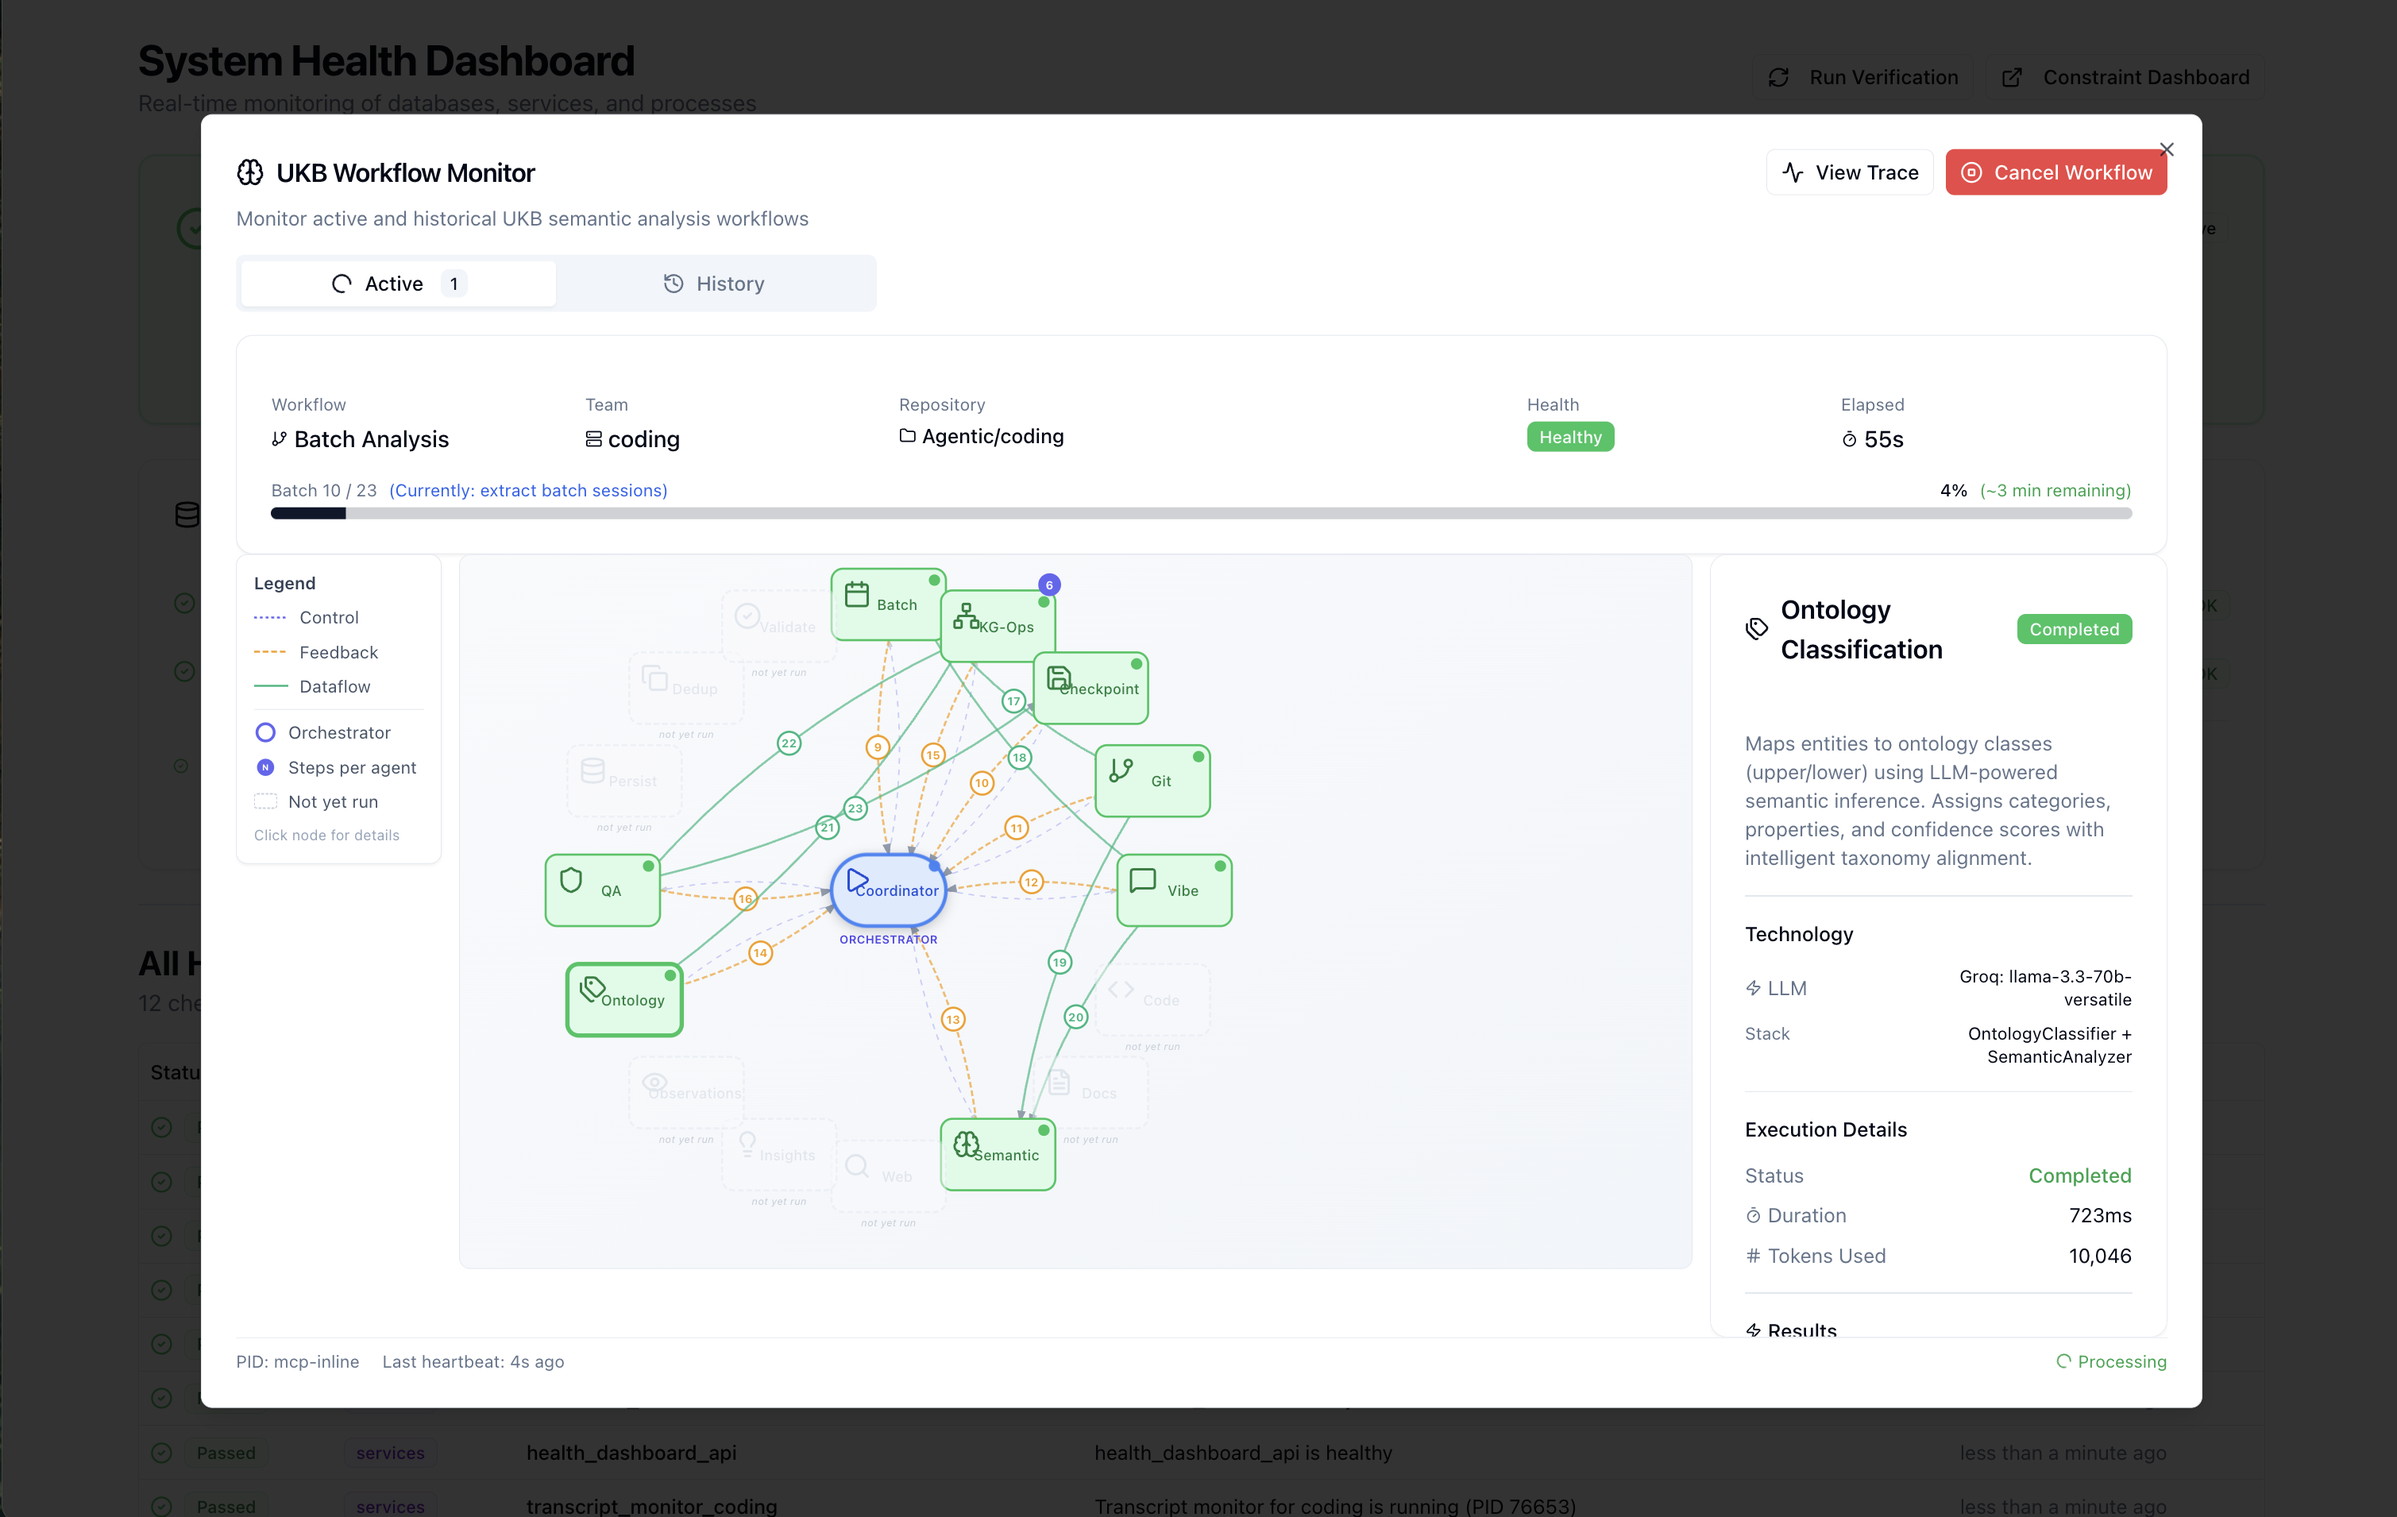
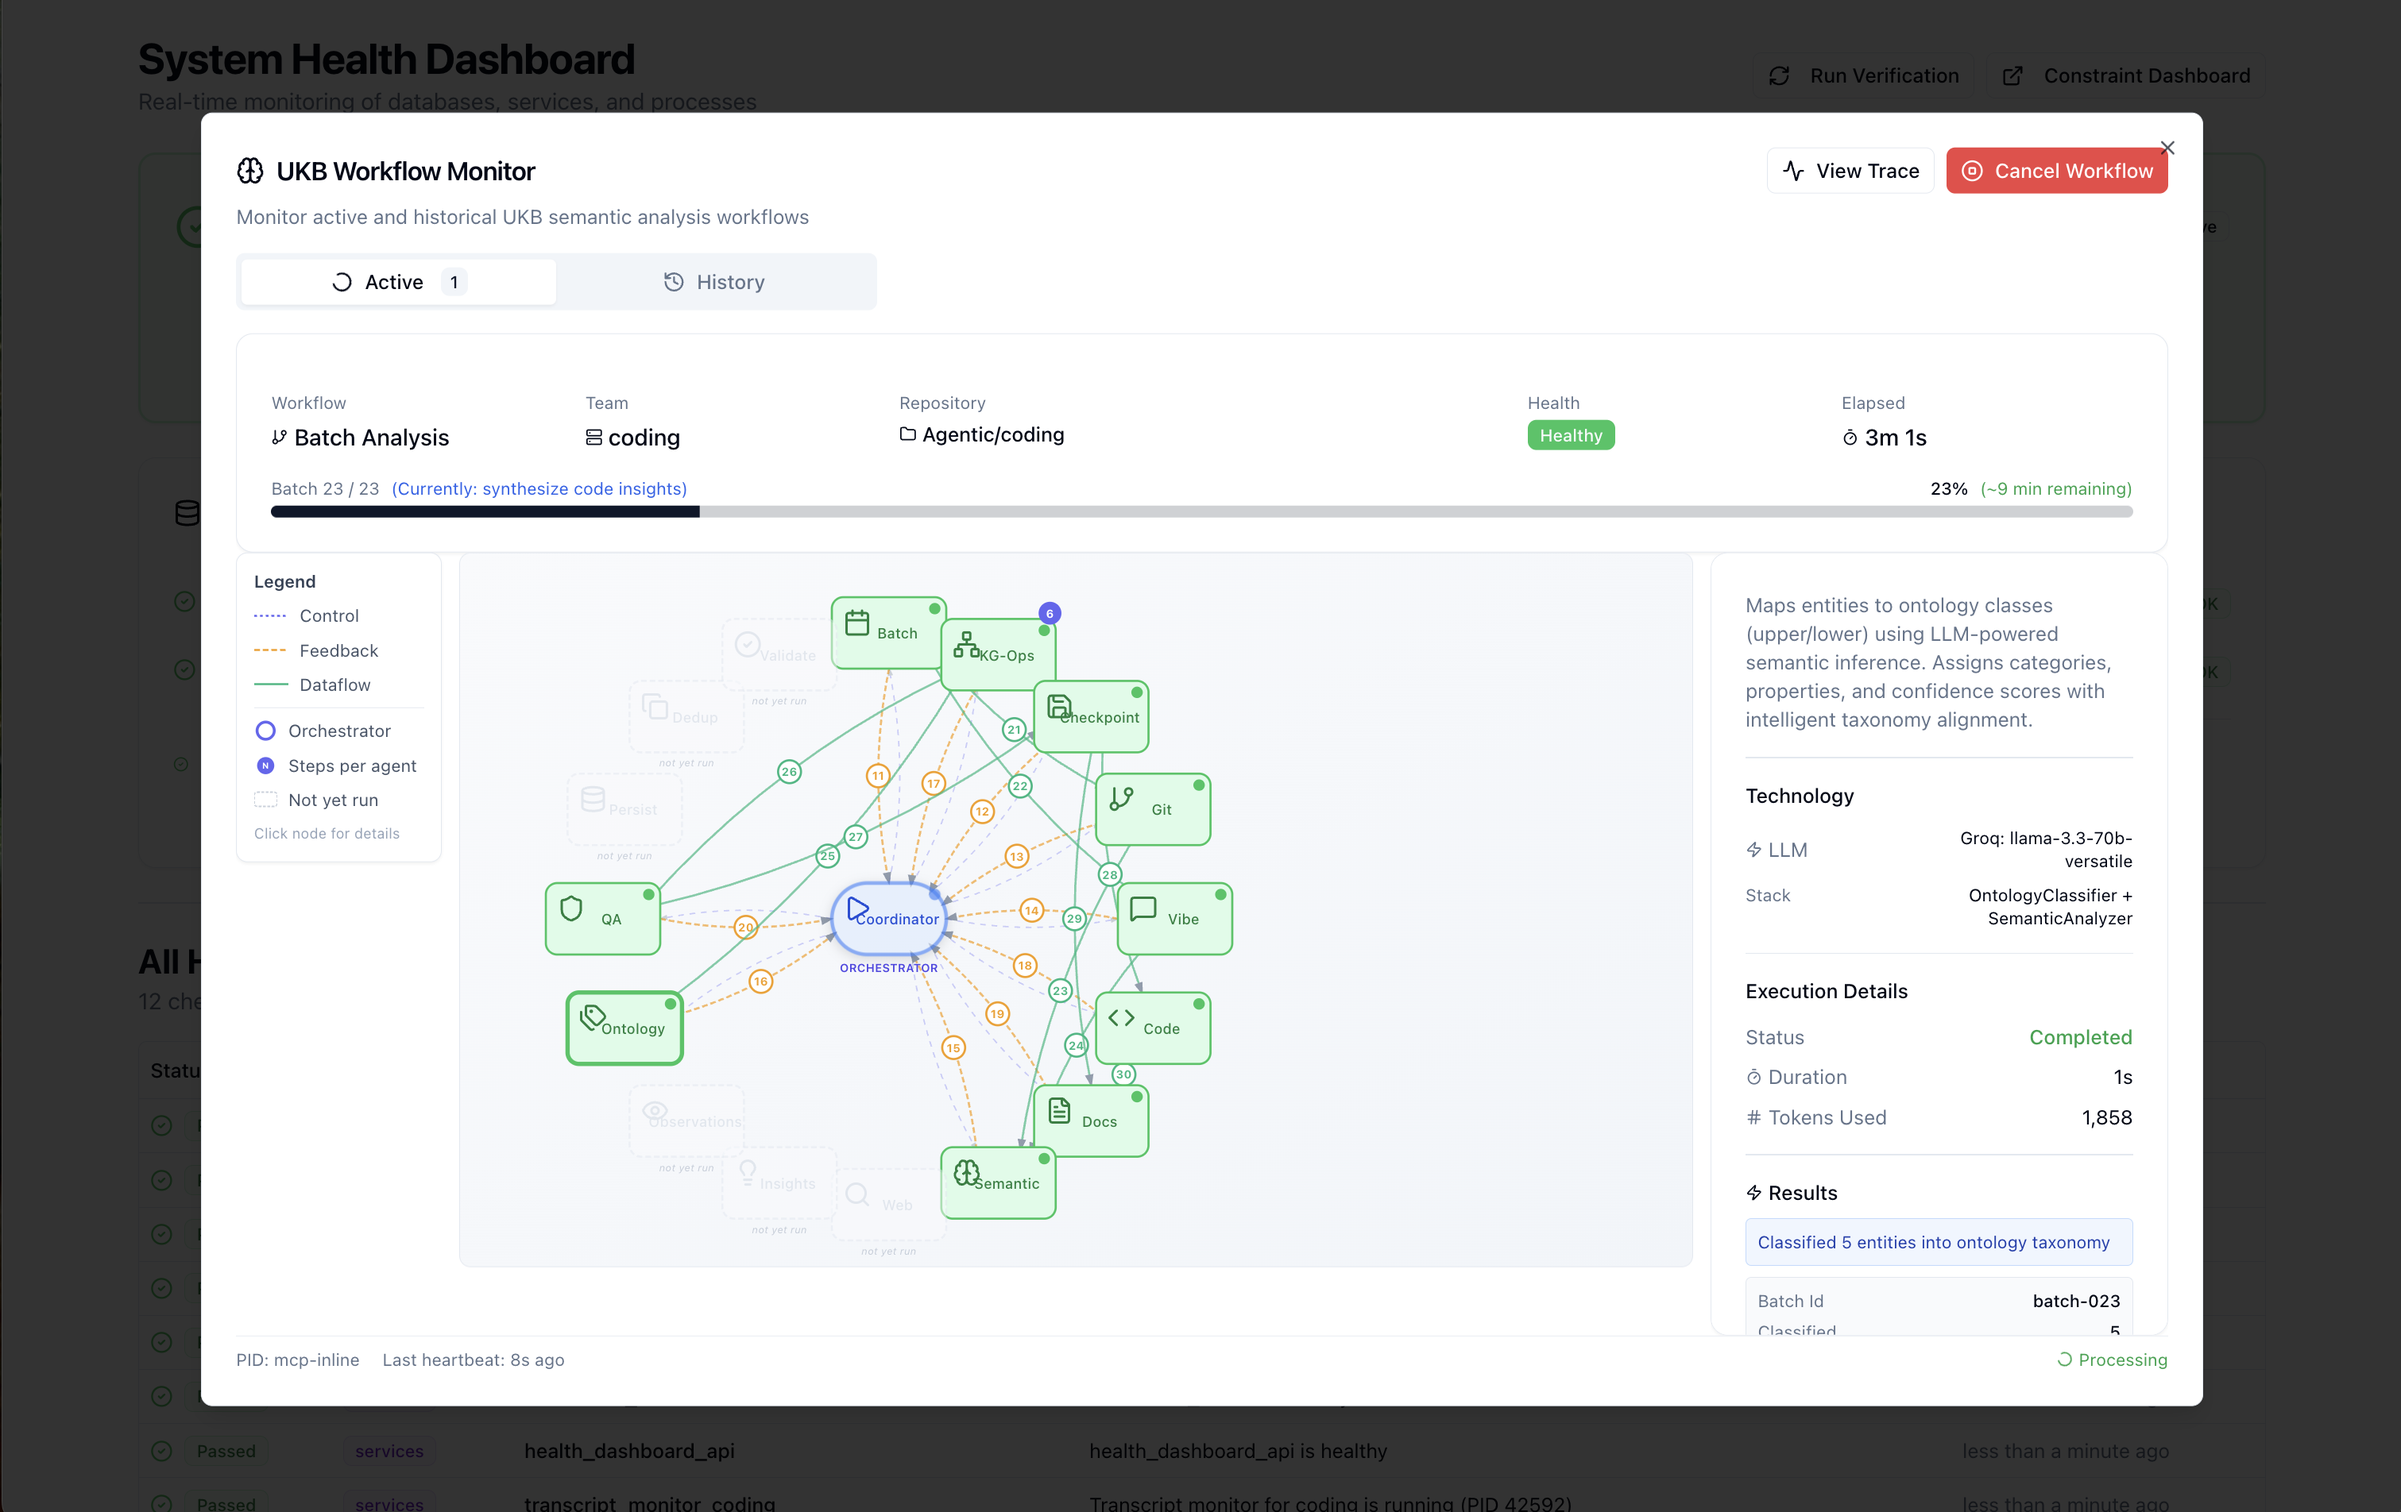
fix: progress bar and layout

diff --git a/integrations/system-health-dashboard/src/components/ukb-workflow-modal.tsx b/integrations/system-health-dashboard/src/components/ukb-workflow-modal.tsx
@@ -399,9 +399,33 @@ export default function UKBWorkflowModal({ open, onOpenChange, processes, apiBas
 
       const currentBatch = activeCurrentProcess.batchProgress?.currentBatch || 0
       const totalBatches = activeCurrentProcess.batchProgress?.totalBatches || 0
+      const completedSteps = activeCurrentProcess.completedSteps || 0
+      const totalSteps = activeCurrentProcess.totalSteps
+
+      // STEP-COUNT PROGRESS: Calculate weighted step-based progress as a floor
+      // This ensures progress never appears behind what's actually completed
+      let stepBasedProgress = 0
+      const isInFinalization = completedSteps > BATCH_STEP_COUNT ||
+                               (currentBatch === totalBatches && totalBatches > 0)
+
+      if (isInFinalization) {
+        // Finalization phase: 85% (all batches) + finalization progress × 15%
+        const finSteps = Math.max(0, completedSteps - BATCH_STEP_COUNT)
+        const totalFinSteps = Math.max(1, totalSteps - BATCH_STEP_COUNT)
+        stepBasedProgress = Math.round(
+          (BATCH_WEIGHT + (finSteps / totalFinSteps) * (1 - BATCH_WEIGHT)) * 100
+        )
+      } else if (totalBatches > 0 && currentBatch > 0) {
+        // Batch phase: progress = batch completion × 85%
+        stepBasedProgress = Math.round((currentBatch / totalBatches) * BATCH_WEIGHT * 100)
+      } else {
+        // Fallback: simple step percentage
+        stepBasedProgress = Math.round((completedSteps / totalSteps) * 100)
+      }
 
       // TIME-BASED PROGRESS: Use historical statistics when available (3+ samples)
       // Use MEDIAN instead of mean for robustness against outliers
+      let timeBasedProgress = 0
       if (hasReliableStats && workflowStats) {
         // Compute median batch duration from individual step medians
         let medianBatchMs = 0
@@ -440,45 +464,43 @@ export default function UKBWorkflowModal({ open, onOpenChange, processes, apiBas
         if (medianBatchMs > 0 && totalBatches > 0) {
           // Per-batch learning: estimate total time based on actual batch count
           const estimatedBatchPhaseMs = medianBatchMs * totalBatches
-          const estimatedTotalMs = estimatedBatchPhaseMs + medianFinalizationMs
+          let estimatedTotalMs = estimatedBatchPhaseMs + medianFinalizationMs
+
+          // SANITY CHECK: Cap estimated total to prevent inflated historical stats
+          // from showing unreasonably low progress. If we're in finalization and
+          // step-based shows >80%, estimated total shouldn't exceed 1.5x elapsed time.
+          if (isInFinalization && stepBasedProgress >= 80 && elapsedMs > 0) {
+            const maxReasonableTotal = elapsedMs * 1.5 // Expect completion within 50% more time
+            if (estimatedTotalMs > maxReasonableTotal) {
+              estimatedTotalMs = maxReasonableTotal
+            }
+          }
 
           // Calculate progress based on elapsed time vs estimated total
-          if (currentBatch > 0 && currentBatch <= totalBatches) {
-            // In batch phase
-            const estimatedProgressMs = Math.min(elapsedMs, estimatedTotalMs)
-            calculatedProgressPercent = Math.min(99, Math.round((estimatedProgressMs / estimatedTotalMs) * 100))
-            etaMs = Math.max(0, estimatedTotalMs - estimatedProgressMs)
-            usingTimeBased = true
-          } else if (activeCurrentProcess.completedSteps > BATCH_STEP_COUNT) {
-            // In finalization phase
-            calculatedProgressPercent = Math.min(99, Math.round((elapsedMs / estimatedTotalMs) * 100))
-            etaMs = Math.max(0, estimatedTotalMs - elapsedMs)
-            usingTimeBased = true
-          }
+          const estimatedProgressMs = Math.min(elapsedMs, estimatedTotalMs)
+          timeBasedProgress = Math.min(99, Math.round((estimatedProgressMs / estimatedTotalMs) * 100))
+          etaMs = Math.max(0, estimatedTotalMs - elapsedMs)
+          usingTimeBased = true
         }
       }
 
-      // STEP-COUNT FALLBACK: Use weighted step-based calculation
-      if (!usingTimeBased) {
-        if (activeCurrentProcess.batchProgress && totalBatches > 0) {
-          // During batch phase: progress = batch completion × 85%
-          calculatedProgressPercent = Math.round(
-            (currentBatch / totalBatches) * BATCH_WEIGHT * 100
-          )
-        } else if (activeCurrentProcess.completedSteps > BATCH_STEP_COUNT) {
-          // Finalization phase: 85% + finalization progress × 15%
-          const finSteps = activeCurrentProcess.completedSteps - BATCH_STEP_COUNT
-          const totalFinSteps = activeCurrentProcess.totalSteps - BATCH_STEP_COUNT
-          calculatedProgressPercent = Math.round(
-            (BATCH_WEIGHT + (finSteps / totalFinSteps) * (1 - BATCH_WEIGHT)) * 100
-          )
-        } else {
-          // Fallback for early stages or non-batch workflows
-          calculatedProgressPercent = Math.round(
-            (activeCurrentProcess.completedSteps / activeCurrentProcess.totalSteps) * 100
-          )
+      // HYBRID APPROACH: Use maximum of time-based and step-based progress
+      // This ensures progress never appears behind actual completion
+      if (usingTimeBased) {
+        calculatedProgressPercent = Math.max(timeBasedProgress, stepBasedProgress)
+        // If using step-based as floor, recalculate ETA based on step progress rate
+        if (stepBasedProgress > timeBasedProgress && elapsedMs > 0 && stepBasedProgress < 99) {
+          // Estimate remaining time based on how long the completed portion took
+          const progressPerMs = stepBasedProgress / elapsedMs
+          const remainingProgress = 100 - stepBasedProgress
+          etaMs = progressPerMs > 0 ? Math.round(remainingProgress / progressPerMs) : 0
         }
+      } else {
+        calculatedProgressPercent = stepBasedProgress
       }
+
+      // Cap at 99% until workflow actually completes
+      calculatedProgressPercent = Math.min(99, calculatedProgressPercent)
     }
 
     // Format ETA for display
@@ -625,7 +647,7 @@ export default function UKBWorkflowModal({ open, onOpenChange, processes, apiBas
               </div>
 
               {/* Center: Workflow Graph - key only changes on workflow identity, not step updates */}
-              <div className="flex-1 min-w-0">
+              <div className="flex-1 min-w-0 h-full">
                 <UKBWorkflowGraph
                   key={`${activeCurrentProcess.pid}-${activeCurrentProcess.workflowName || 'workflow'}`}
                   process={activeCurrentProcess}
@@ -874,7 +896,7 @@ export default function UKBWorkflowModal({ open, onOpenChange, processes, apiBas
               </div>
             ) : historicalProcessInfo ? (
               <>
-                <div className="flex-1 min-w-0 min-h-0">
+                <div className="flex-1 min-w-0 min-h-0 h-full">
                   <UKBWorkflowGraph
                     process={historicalProcessInfo}
                     onNodeClick={handleHistoricalNodeClick}

diff --git a/integrations/system-health-dashboard/src/components/ukb-workflow-graph.tsx b/integrations/system-health-dashboard/src/components/ukb-workflow-graph.tsx
@@ -1425,9 +1425,9 @@ export default function UKBWorkflowGraph({ process, onNodeClick, selectedNode }:
 
   return (
     <TooltipProvider>
-      <div className="flex gap-4 w-full">
-        {/* Graph Container - contains scrollable SVG */}
-        <div className="flex-1 relative bg-gradient-to-br from-slate-50 to-slate-100 rounded-lg border overflow-auto max-h-[500px]">
+      <div className="flex gap-4 w-full h-full">
+        {/* Graph Container - contains scrollable SVG, fills available height */}
+        <div className="flex-1 relative bg-gradient-to-br from-slate-50 to-slate-100 rounded-lg border overflow-auto h-full">
           <svg
             width={gridWidth + padding * 2}
             height={gridHeight + padding * 2}
